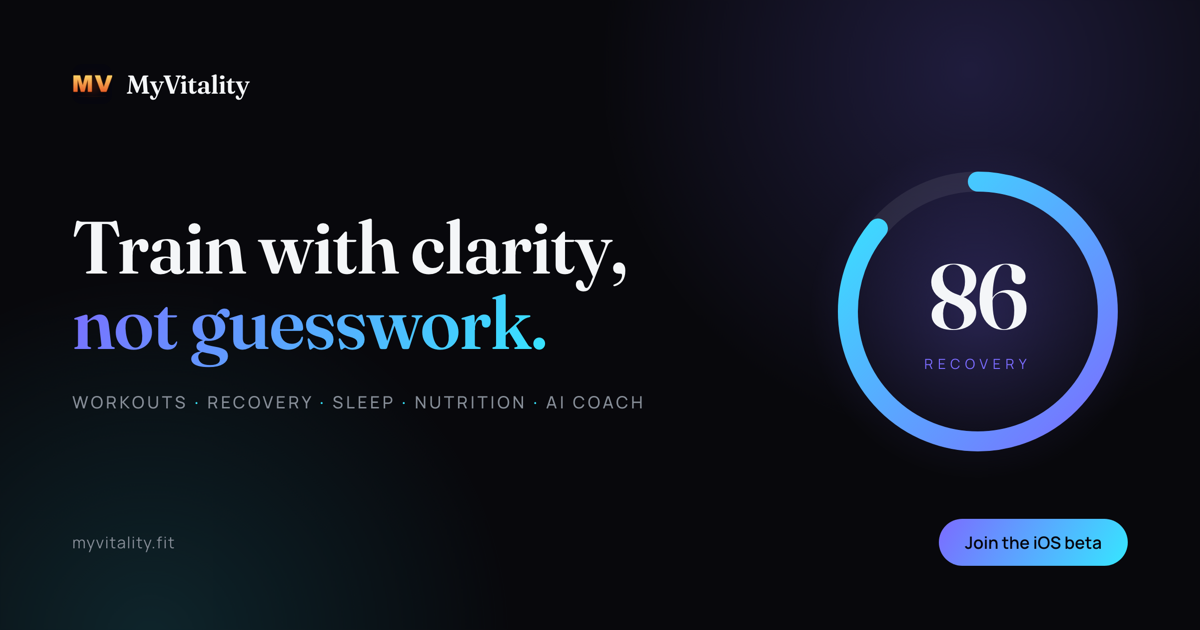
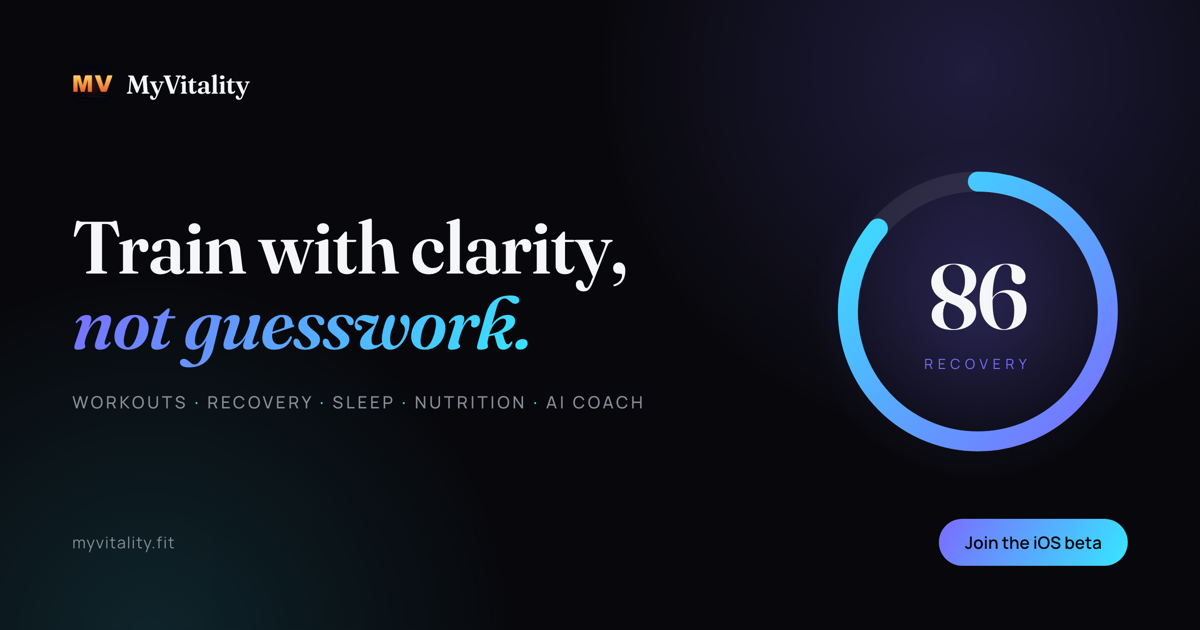
Motion pass: page transitions, staggered reveals, gradient micro-interactions
- Cross-document view transitions: pages crossfade + drift on navigation,
  sticky nav keeps its own transition group so it stays anchored (MPA feels
  like an app; progressive, reduced-motion safe).
- Grid reveals now cascade child-by-child (cards, posts, steps, FAQ) with
  70ms stagger instead of moving as one block; data-reveal added to 19
  subpage grids that never had it.
- CTAs slide the purple→cyan gradient on hover instead of a brightness
  bump; nav links get an animated gradient underline; feature-card 'more'
  arrows nudge + shift cyan; comparison rows highlight on hover.
- FAQ accordions animate open where interpolate-size is supported.
- Headline gradient highlights now italic Fraunces (site + OG image).

Changed region(s): [[0.0617, 0.4524, 0.4625, 0.6032]]

diff --git a/styles.css b/styles.css
@@ -1,4 +1,4 @@
-@import url('https://fonts.googleapis.com/css2?family=Fraunces:opsz,wght@9..144,450..650&family=Manrope:wght@400;500;600;700;800&display=swap');
+@import url('https://fonts.googleapis.com/css2?family=Fraunces:ital,opsz,wght@0,9..144,450..650;1,9..144,450..650&family=Manrope:wght@400;500;600;700;800&display=swap');
 
 /* ==========================================================================
    MyVitality — Aurora Instrument
@@ -66,6 +66,18 @@
   --ease: cubic-bezier(.2,.7,.2,1);
 }
 
+/* ── Page transitions — cross-document view transitions (progressive) ──
+   Pages crossfade + drift on navigation; the sticky nav keeps its own
+   transition group so it stays visually anchored between pages. */
+@view-transition { navigation: auto; }
+nav.site-nav { view-transition-name: site-nav; }
+@media (prefers-reduced-motion: no-preference) {
+  ::view-transition-old(root) { animation: pageOut .2s var(--ease) both; }
+  ::view-transition-new(root) { animation: pageIn .32s var(--ease) both; }
+}
+@keyframes pageOut { to { opacity: 0; transform: translateY(-8px); } }
+@keyframes pageIn { from { opacity: 0; transform: translateY(10px); } }
+
 html { scroll-behavior: smooth; -webkit-text-size-adjust: 100%; }
 body {
   font-family: var(--font-sans);
@@ -118,6 +130,7 @@ h1, h2, h3 { font-family: var(--font-display); font-weight: 560; letter-spacing:
   color: var(--accent);
   background: var(--grad);
   -webkit-background-clip: text; -webkit-text-fill-color: transparent; background-clip: text;
+  font-style: italic; padding-right: .05em; /* italic serif accent; pad stops clip cutting the overhang */
 }
 
 /* Mono kicker / data label utility */
@@ -149,13 +162,20 @@ nav.site-nav {
 .nav-links { display: flex; align-items: center; gap: 30px; }
 .nav-links a { color: var(--muted); font-size: .9rem; font-weight: 500; white-space: nowrap; transition: color .2s var(--ease); }
 .nav-links a:hover, .nav-links a[aria-current="page"] { color: var(--text); }
+.nav-links a:not(.nav-cta) { position: relative; }
+.nav-links a:not(.nav-cta)::after {
+  content: ''; position: absolute; left: 0; bottom: -7px; width: 100%; height: 1.5px; border-radius: 2px;
+  background: var(--grad); transform: scaleX(0); transform-origin: left; transition: transform .28s var(--ease);
+}
+.nav-links a:not(.nav-cta):hover::after, .nav-links a:not(.nav-cta)[aria-current="page"]::after { transform: scaleX(1); }
 .nav-cta {
-  background: var(--grad); color: var(--ink) !important;
+  background: var(--grad); background-size: 165% 100%; background-position: 0% 50%;
+  color: var(--ink) !important;
   padding: 9px 18px; border-radius: var(--r-full); font-weight: 600; font-size: .85rem !important;
-  flex-shrink: 0; transition: transform .2s var(--ease), box-shadow .2s var(--ease), filter .2s var(--ease);
+  flex-shrink: 0; transition: transform .2s var(--ease), box-shadow .2s var(--ease), background-position .4s var(--ease);
   box-shadow: 0 6px 22px rgba(123,108,255,0.24);
 }
-.nav-cta:hover { transform: translateY(-1px); filter: brightness(1.08); box-shadow: 0 10px 30px rgba(123,108,255,0.34); }
+.nav-cta:hover { transform: translateY(-1px); background-position: 92% 50%; box-shadow: 0 10px 30px rgba(123,108,255,0.34); }
 
 /* Hamburger (injected by app.js) */
 .nav-toggle {
@@ -201,13 +221,14 @@ html.menu-open { overflow: hidden; }
 /* ── Buttons ── */
 .btn-primary {
   display: inline-flex; align-items: center; gap: 9px;
-  background: var(--grad); color: var(--ink);
+  background: var(--grad); background-size: 165% 100%; background-position: 0% 50%;
+  color: var(--ink);
   padding: 13px 24px; border-radius: var(--r-full); font-weight: 600; font-size: .95rem;
   letter-spacing: -0.01em; border: 0; cursor: pointer; font-family: inherit;
-  transition: transform .2s var(--ease), box-shadow .2s var(--ease), filter .2s var(--ease);
+  transition: transform .2s var(--ease), box-shadow .2s var(--ease), background-position .4s var(--ease);
   box-shadow: inset 0 1px 0 rgba(255,255,255,0.22), 0 8px 28px rgba(123,108,255,0.26);
 }
-.btn-primary:hover { transform: translateY(-2px); filter: brightness(1.09); box-shadow: inset 0 1px 0 rgba(255,255,255,0.28), 0 14px 40px rgba(123,108,255,0.36); }
+.btn-primary:hover { transform: translateY(-2px); background-position: 92% 50%; box-shadow: inset 0 1px 0 rgba(255,255,255,0.28), 0 14px 40px rgba(123,108,255,0.36); }
 .btn-secondary {
   display: inline-flex; align-items: center; gap: 8px;
   background: transparent; border: 1px solid var(--border);
@@ -287,7 +308,8 @@ html.menu-open { overflow: hidden; }
 .feat-card:hover .feat-icon { color: var(--accent); border-color: var(--accent-line); background: var(--accent-soft); }
 .feat-title { font-size: 1.02rem; font-weight: 600; letter-spacing: -0.015em; margin-bottom: 9px; }
 .feat-desc { font-size: .9rem; color: var(--muted); line-height: 1.6; }
-.feat-card .more { display: inline-block; margin-top: 14px; font-family: var(--font-label); font-size: .76rem; font-weight: 500; letter-spacing: .02em; color: var(--accent); }
+.feat-card .more { display: inline-block; margin-top: 14px; font-family: var(--font-label); font-size: .76rem; font-weight: 500; letter-spacing: .02em; color: var(--accent); transition: transform .25s var(--ease), color .25s var(--ease); }
+.feat-card:hover .more { transform: translateX(3px); color: var(--accent-2); }
 
 /* ── Problem cards ── */
 .problem-card { background: var(--card); border: 1px solid var(--border); border-radius: var(--r); padding: 24px; }
@@ -304,6 +326,8 @@ html.menu-open { overflow: hidden; }
 .compare .yes { color: var(--accent); font-weight: 600; }
 .compare .no { color: var(--faint); }
 .compare tr:last-child td { border-bottom: none; }
+.compare tbody tr { transition: background .18s var(--ease); }
+.compare tbody tr:hover { background: rgba(255,255,255,0.02); }
 .compare-wrap { overflow-x: auto; }
 
 /* ── FAQ (CSS-only accordion, hairline list) ── */
@@ -316,6 +340,15 @@ html.menu-open { overflow: hidden; }
 .faq summary::-webkit-details-marker { display: none; }
 .faq summary::after { content: '+'; color: var(--accent); font-size: 1.5rem; font-weight: 300; line-height: 1; transition: transform .25s var(--ease); }
 .faq details[open] summary::after { transform: rotate(45deg); }
+/* Smooth accordion expand where the browser can animate height:auto */
+@supports (interpolate-size: allow-keywords) {
+  :root { interpolate-size: allow-keywords; }
+  .faq details::details-content {
+    height: 0; overflow: clip;
+    transition: height .32s var(--ease), content-visibility .32s allow-discrete;
+  }
+  .faq details[open]::details-content { height: auto; }
+}
 .faq details p { color: var(--text-2); font-size: .95rem; line-height: 1.7; padding: 0 4px 22px; max-width: 660px; }
 .faq details p a { color: var(--accent); }
 
@@ -440,8 +473,28 @@ html.js [data-reveal] {
   transition: opacity .7s var(--ease), transform .7s var(--ease); will-change: opacity, transform;
 }
 html.js [data-reveal].in { opacity: 1; transform: none; }
+
+/* Grids cascade: the container stays put, its children stagger in one by one */
+html.js :is(.cards-3, .cards-2, .post-grid, .trust-grid, .why-grid, .steps, .price-grid, .faq)[data-reveal] {
+  opacity: 1; transform: none; transition: none;
+}
+html.js :is(.cards-3, .cards-2, .post-grid, .trust-grid, .why-grid, .steps, .price-grid, .faq)[data-reveal] > * {
+  opacity: 0; transform: translateY(22px);
+  transition: opacity .55s var(--ease), transform .55s var(--ease);
+}
+html.js :is(.cards-3, .cards-2, .post-grid, .trust-grid, .why-grid, .steps, .price-grid, .faq)[data-reveal].in > * { opacity: 1; transform: none; }
+html.js [data-reveal].in > :nth-child(2) { transition-delay: .07s; }
+html.js [data-reveal].in > :nth-child(3) { transition-delay: .14s; }
+html.js [data-reveal].in > :nth-child(4) { transition-delay: .21s; }
+html.js [data-reveal].in > :nth-child(5) { transition-delay: .28s; }
+html.js [data-reveal].in > :nth-child(6) { transition-delay: .35s; }
+html.js [data-reveal].in > :nth-child(7) { transition-delay: .42s; }
+html.js [data-reveal].in > :nth-child(n+8) { transition-delay: .49s; }
+
 @media (prefers-reduced-motion: reduce) {
-  html.js [data-reveal] { opacity: 1 !important; transform: none !important; }
+  html.js [data-reveal], html.js [data-reveal] > * {
+    opacity: 1 !important; transform: none !important; transition: none !important;
+  }
   html { scroll-behavior: auto; }
 }
 

diff --git a/features/index.html b/features/index.html
@@ -59,7 +59,7 @@
   <div class="container">
     <span class="eyebrow">Training</span>
     <h2 class="section-title">Track every workout</h2>
-    <div class="cards-3" style="margin-top:32px">
+    <div class="cards-3" data-reveal style="margin-top:32px">
       <div class="feat-card"><div class="feat-icon"><svg viewBox="0 0 24 24" aria-hidden="true"><path d="M9 20l-5 2V6l5-2 6 2 5-2v16l-5 2-6-2z"/><path d="M9 4v16M15 6v16"/></svg></div><div class="feat-title"><a class="feat-title-link" href="/workout-tracker/">GPS workout tracker</a></div><div class="feat-desc">Real-time route on a clean map with live pace, heart rate, elevation and splits.</div><a class="more" href="/workout-tracker/">Learn more →</a></div>
       <div class="feat-card"><div class="feat-icon"><svg viewBox="0 0 24 24" aria-hidden="true"><path d="M4 14a8 8 0 0 1 16 0"/><rect x="3" y="14" width="4" height="6" rx="1.6"/><rect x="17" y="14" width="4" height="6" rx="1.6"/></svg></div><div class="feat-title">Smart coaching cues</div><div class="feat-desc">Ghost runner, heart-rate zones, intervals, auto-pause and a 3-2-1 countdown.</div></div>
       <div class="feat-card"><div class="feat-icon"><svg viewBox="0 0 24 24" aria-hidden="true"><path d="M8 4h8v5a4 4 0 0 1-8 0z"/><path d="M8 6H5.2c.1 2.4 1.4 3.8 2.8 4M16 6h2.8c-.1 2.4-1.4 3.8-2.8 4"/><path d="M12 13v4M8.5 21h7M10 17h4"/></svg></div><div class="feat-title">Personal records &amp; streaks</div><div class="feat-desc">Auto-detected PRs from 1K to marathon, plus a daily streak with a monthly freeze.</div></div>
@@ -75,7 +75,7 @@
   <div class="container">
     <span class="eyebrow">Recovery &amp; health</span>
     <h2 class="section-title">Understand your body</h2>
-    <div class="cards-3" style="margin-top:32px">
+    <div class="cards-3" data-reveal style="margin-top:32px">
       <div class="feat-card"><div class="feat-icon"><svg viewBox="0 0 24 24" aria-hidden="true"><path d="M12 20s-7-4.6-9.2-8.4C1.1 8.3 2.8 5 6 5c2 0 3.2 1.2 4 2 .8-.8 2-2 4-2 3.2 0 4.9 3.3 3.2 6.6C19 15.4 12 20 12 20z"/></svg></div><div class="feat-title"><a class="feat-title-link" href="/recovery-tracker/">Recovery &amp; HRV</a></div><div class="feat-desc">A daily readiness score from HRV, resting heart rate and sleep.</div><a class="more" href="/recovery-tracker/">Learn more →</a></div>
       <div class="feat-card"><div class="feat-icon"><svg viewBox="0 0 24 24" aria-hidden="true"><path d="M21 12.8A8.5 8.5 0 1 1 11.2 3 6.6 6.6 0 0 0 21 12.8z"/></svg></div><div class="feat-title"><a class="feat-title-link" href="/sleep-tracker/">Sleep tracking</a></div><div class="feat-desc">Deep, REM and light stages every morning with trends.</div><a class="more" href="/sleep-tracker/">Learn more →</a></div>
       <div class="feat-card"><div class="feat-icon"><svg viewBox="0 0 24 24" aria-hidden="true"><path d="M12 4 2.9 19.5a1 1 0 0 0 .9 1.5h16.4a1 1 0 0 0 .9-1.5z"/><path d="M12 10v4M12 17.5h.01"/></svg></div><div class="feat-title">Recovery intelligence</div><div class="feat-desc">Training-load balance, early-warning alerts and habit insights.</div></div>
@@ -91,7 +91,7 @@
   <div class="container">
     <span class="eyebrow">Nutrition &amp; coaching</span>
     <h2 class="section-title">Fuel and guidance</h2>
-    <div class="cards-3" style="margin-top:32px">
+    <div class="cards-3" data-reveal style="margin-top:32px">
       <div class="feat-card"><div class="feat-icon"><svg viewBox="0 0 24 24" aria-hidden="true"><path d="M5 21C4 12 9 4 20 4c0 11-8 16-15 14z"/><path d="M5 21c2-6 6-9 10-10"/></svg></div><div class="feat-title">AI nutrition</div><div class="feat-desc">Photo → macros in seconds, barcode scanning and custom protein, carb and fat goals.</div></div>
       <div class="feat-card"><div class="feat-icon"><svg viewBox="0 0 24 24" aria-hidden="true"><path d="M12 3s6 6.4 6 10.4a6 6 0 0 1-12 0C6 9.4 12 3 12 3z"/></svg></div><div class="feat-title">Net calories &amp; water</div><div class="feat-desc">Calories in vs out, micronutrient trends and first-class water tracking.</div></div>
       <div class="feat-card"><div class="feat-icon"><svg viewBox="0 0 24 24" aria-hidden="true"><path d="M12 3l1.7 5L19 9.7l-5.3 1.6L12 17l-1.7-5.7L5 9.7 10.3 8z"/><path d="M19 14.5l.6 1.9 1.9.6-1.9.6-.6 1.9-.6-1.9-1.9-.6 1.9-.6z"/></svg></div><div class="feat-title"><a class="feat-title-link" href="/#coach">AI coach</a></div><div class="feat-desc">Ask anything; answers grounded in your real recovery, training and goals.</div><a class="more" href="/#coach">Meet the coach →</a></div>
@@ -104,7 +104,7 @@
   <div class="container">
     <span class="eyebrow">Community</span>
     <h2 class="section-title">Stay accountable</h2>
-    <div class="cards-3" style="margin-top:32px">
+    <div class="cards-3" data-reveal style="margin-top:32px">
       <div class="feat-card"><div class="feat-icon"><svg viewBox="0 0 24 24" aria-hidden="true"><circle cx="9" cy="8" r="3"/><path d="M3.5 20a5.5 5.5 0 0 1 11 0"/><path d="M16 6.2a3 3 0 0 1 0 5.6M20.5 20a5.5 5.5 0 0 0-4-5.3"/></svg></div><div class="feat-title"><a class="feat-title-link" href="/community/">Activity feed</a></div><div class="feat-desc">Follow friends, cheer their workouts and share your route card.</div><a class="more" href="/community/">Learn more →</a></div>
       <div class="feat-card"><div class="feat-icon"><svg viewBox="0 0 24 24" aria-hidden="true"><path d="M5 21V4"/><path d="M5 5c4.5-2.2 8.5 2 14 0v9.5c-5.5 2-9.5-2.2-14 0"/></svg></div><div class="feat-title">Challenges &amp; teams</div><div class="feat-desc">Solo or team distance challenges with live leaderboards.</div></div>
       <div class="feat-card"><div class="feat-icon"><svg viewBox="0 0 24 24" aria-hidden="true"><rect x="3" y="5" width="18" height="14" rx="2"/><path d="M7.5 5v14M16.5 5v14M3 9.5h4.5M3 14.5h4.5M16.5 9.5H21M16.5 14.5H21"/></svg></div><div class="feat-title">Year in review</div><div class="feat-desc">A shareable story of your training year.</div></div>

diff --git a/workout-tracker/index.html b/workout-tracker/index.html
@@ -96,7 +96,7 @@
     <p class="section-sub">Consistency is the whole game. MyVitality turns every session into a trend you can actually act on.</p>
   </div>
   <div class="container" style="margin-top:48px">
-    <div class="cards-3">
+    <div class="cards-3" data-reveal>
       <div class="feat-card"><div class="feat-icon"><svg viewBox="0 0 24 24" aria-hidden="true"><path d="M3 17l6-6 4 4 8-8"/><path d="M14 7h7v7"/></svg></div><div class="feat-title">Weekly &amp; monthly trends</div><div class="feat-desc">Distance, time, pace and elevation over time, so you can see whether you're really improving — not just guessing.</div></div>
       <div class="feat-card"><div class="feat-icon"><svg viewBox="0 0 24 24" aria-hidden="true"><path d="M8 4h8v5a4 4 0 0 1-8 0z"/><path d="M8 6H5.2c.1 2.4 1.4 3.8 2.8 4M16 6h2.8c-.1 2.4-1.4 3.8-2.8 4"/><path d="M12 13v4M8.5 21h7M10 17h4"/></svg></div><div class="feat-title">Automatic personal records</div><div class="feat-desc">PRs from 1K to marathon are detected for you and celebrated when you beat them.</div></div>
       <div class="feat-card"><div class="feat-icon"><svg viewBox="0 0 24 24" aria-hidden="true"><path d="M8.5 14.5A2.5 2.5 0 0 0 11 12c0-1.38-.5-2-1-3 1.072-2.143 2.224-3.095 3.5-3.5-.61 2.317.238 3.5 1.5 4.5C16.5 11.2 17 12.25 17 14a5 5 0 1 1-10 0c0-.145.005-.317.02-.5z"/></svg></div><div class="feat-title">Streaks &amp; consistency</div><div class="feat-desc">A daily activity streak keeps the habit alive — with a monthly freeze for the days life gets in the way.</div></div>
@@ -111,7 +111,7 @@
     <p class="section-sub">More than a stopwatch — MyVitality coaches you mid-run with audio cues so you can keep your eyes up.</p>
   </div>
   <div class="container" style="margin-top:48px">
-    <div class="cards-3">
+    <div class="cards-3" data-reveal>
       <div class="feat-card"><div class="feat-icon"><svg viewBox="0 0 24 24" aria-hidden="true"><path d="M12 3a7 7 0 0 0-7 7v10l2.5-2 2.5 2 2-2 2 2 2.5-2 2.5 2V10a7 7 0 0 0-7-7z"/><path d="M9.5 11h.01M14.5 11h.01"/></svg></div><div class="feat-title">Ghost runner</div><div class="feat-desc">Race your fastest past effort on the same route and hear whether you're ahead or behind.</div></div>
       <div class="feat-card"><div class="feat-icon"><svg viewBox="0 0 24 24" aria-hidden="true"><path d="M12 20s-7-4.6-9.2-8.4C1.1 8.3 2.8 5 6 5c2 0 3.2 1.2 4 2 .8-.8 2-2 4-2 3.2 0 4.9 3.3 3.2 6.6C19 15.4 12 20 12 20z"/><path d="M7.5 12h2.5l1-2 2 4 1-2h2.5"/></svg></div><div class="feat-title">Heart-rate zones</div><div class="feat-desc">Audio cues when you drift out of your target zone, so easy days stay easy and hard days stay hard.</div></div>
       <div class="feat-card"><div class="feat-icon"><svg viewBox="0 0 24 24" aria-hidden="true"><circle cx="12" cy="13.5" r="7"/><path d="M12 10.5v3l2.2 1.8M10 2.5h4M12 2.5v4"/></svg></div><div class="feat-title">Intervals &amp; auto-pause</div><div class="feat-desc">Built-in interval cues, a 3-2-1 countdown and automatic pause when you stop at a light.</div></div>
@@ -126,7 +126,7 @@
     <p class="section-sub">How you recover and fuel decides how much your workouts actually pay off.</p>
   </div>
   <div class="container" style="margin-top:40px">
-    <div class="cards-3">
+    <div class="cards-3" data-reveal>
       <div class="feat-card"><div class="feat-icon"><svg viewBox="0 0 24 24" aria-hidden="true"><path d="M12 20s-7-4.6-9.2-8.4C1.1 8.3 2.8 5 6 5c2 0 3.2 1.2 4 2 .8-.8 2-2 4-2 3.2 0 4.9 3.3 3.2 6.6C19 15.4 12 20 12 20z"/></svg></div><div class="feat-title">Recovery affects performance</div><div class="feat-desc">Train hard, then check your readiness so you don't dig a hole.</div><a class="more" href="/recovery-tracker/">Recovery tracker →</a></div>
       <div class="feat-card"><div class="feat-icon"><svg viewBox="0 0 24 24" aria-hidden="true"><path d="M21 12.8A8.5 8.5 0 1 1 11.2 3 6.6 6.6 0 0 0 21 12.8z"/></svg></div><div class="feat-title">Sleep drives adaptation</div><div class="feat-desc">Your gains happen at night — track sleep stages every morning.</div><a class="more" href="/sleep-tracker/">Sleep tracker →</a></div>
       <div class="feat-card"><div class="feat-icon"><svg viewBox="0 0 24 24" aria-hidden="true"><circle cx="9" cy="8" r="3"/><path d="M3.5 20a5.5 5.5 0 0 1 11 0"/><path d="M16 6.2a3 3 0 0 1 0 5.6M20.5 20a5.5 5.5 0 0 0-4-5.3"/></svg></div><div class="feat-title">Stay accountable</div><div class="feat-desc">Share your route card and get cheers from friends.</div><a class="more" href="/community/">Community →</a></div>
@@ -136,7 +136,7 @@
 
 <section id="faq">
   <div class="container center"><span class="eyebrow">FAQ</span><h2 class="section-title">Workout tracker questions</h2></div>
-  <div class="faq" style="margin-top:36px">
+  <div class="faq" data-reveal style="margin-top:36px">
     <details open><summary>Can I track workouts without a smartwatch?</summary><p>Yes. The workout tracker uses your iPhone's GPS, so you can record runs, rides and walks with just your phone. A smartwatch adds live heart rate and <a href="/recovery-tracker/">recovery</a> data.</p></details>
     <details><summary>What workout types can I track?</summary><p>Running, cycling, walking, hiking and more — plus any workout added manually with distance, duration and activity type.</p></details>
     <details><summary>Does it show splits and pace?</summary><p>Yes. You get live pace, distance, heart rate and elevation while you move, plus per-kilometre or per-mile splits when you finish.</p></details>

diff --git a/recovery-tracker/index.html b/recovery-tracker/index.html
@@ -96,7 +96,7 @@
     <p class="section-sub">MyVitality watches the patterns most people miss and nudges you at the right moment.</p>
   </div>
   <div class="container" style="margin-top:48px">
-    <div class="cards-3">
+    <div class="cards-3" data-reveal>
       <div class="feat-card"><div class="feat-icon"><svg viewBox="0 0 24 24" aria-hidden="true"><path d="M12 4 2.9 19.5a1 1 0 0 0 .9 1.5h16.4a1 1 0 0 0 .9-1.5z"/><path d="M12 10v4M12 17.5h.01"/></svg></div><div class="feat-title">Training-load balance</div><div class="feat-desc">An acute-to-chronic load ratio flags when you're ramping up too fast — the classic injury window.</div></div>
       <div class="feat-card"><div class="feat-icon"><svg viewBox="0 0 24 24" aria-hidden="true"><path d="M20 12.6A7.8 7.8 0 1 1 11 3.5a6 6 0 0 0 9 9.1z"/><path d="M19 4l.5 1.5L21 6l-1.5.5L19 8l-.5-1.5L17 6l1.5-.5z"/></svg></div><div class="feat-title">Social jet-lag</div><div class="feat-desc">Detects when weekend sleep timing drifts from your weekdays and quietly drags your recovery down.</div></div>
       <div class="feat-card"><div class="feat-icon"><svg viewBox="0 0 24 24" aria-hidden="true"><path d="M4 9h13v5a5 5 0 0 1-5 5H9a5 5 0 0 1-5-5z"/><path d="M17 10h1.5a2.5 2.5 0 0 1 0 5H17"/><path d="M8 3.5V6M12 3.5V6"/></svg></div><div class="feat-title">Habit insights</div><div class="feat-desc">Learns how late caffeine and other habits affect your sleep score, using your own data.</div></div>
@@ -110,7 +110,7 @@
     <p class="section-sub">Your readiness only makes sense next to your training, sleep and an AI coach that reads all of it.</p>
   </div>
   <div class="container" style="margin-top:40px">
-    <div class="cards-3">
+    <div class="cards-3" data-reveal>
       <div class="feat-card"><div class="feat-icon"><svg viewBox="0 0 24 24" aria-hidden="true"><path d="M9 20l-5 2V6l5-2 6 2 5-2v16l-5 2-6-2z"/><path d="M9 4v16M15 6v16"/></svg></div><div class="feat-title">Train on the right days</div><div class="feat-desc">Pair readiness with your sessions to time hard efforts well.</div><a class="more" href="/workout-tracker/">Workout tracker →</a></div>
       <div class="feat-card"><div class="feat-icon"><svg viewBox="0 0 24 24" aria-hidden="true"><path d="M21 12.8A8.5 8.5 0 1 1 11.2 3 6.6 6.6 0 0 0 21 12.8z"/></svg></div><div class="feat-title">Sleep is the foundation</div><div class="feat-desc">See the sleep stages driving your recovery each night.</div><a class="more" href="/sleep-tracker/">Sleep tracker →</a></div>
       <div class="feat-card"><div class="feat-icon"><svg viewBox="0 0 24 24" aria-hidden="true"><path d="M12 3l1.7 5L19 9.7l-5.3 1.6L12 17l-1.7-5.7L5 9.7 10.3 8z"/><path d="M19 14.5l.6 1.9 1.9.6-1.9.6-.6 1.9-.6-1.9-1.9-.6 1.9-.6z"/></svg></div><div class="feat-title">Ask your AI coach</div><div class="feat-desc">"Am I recovered enough today?" — answered with your numbers.</div><a class="more" href="/#coach">AI coach →</a></div>
@@ -120,7 +120,7 @@
 
 <section id="faq">
   <div class="container center"><span class="eyebrow">FAQ</span><h2 class="section-title">Recovery tracker questions</h2></div>
-  <div class="faq" style="margin-top:36px">
+  <div class="faq" data-reveal style="margin-top:36px">
     <details open><summary>What is a recovery score?</summary><p>A recovery (or readiness) score combines overnight heart rate variability, resting heart rate and sleep quality into one number that tells you how ready your body is to train hard today.</p></details>
     <details><summary>Do I need an Apple Watch?</summary><p>You need a wearable that measures overnight HRV and heart rate and syncs to Apple Health — Apple Watch, Garmin, Whoop, Oura or Fitbit all work. MyVitality reads the data automatically.</p></details>
     <details><summary>How is recovery different from rest?</summary><p>Rest is taking time off; recovery is the measurable process of adapting and returning to baseline. We break it down further in <a href="/blog/recovery-vs-rest/">recovery vs rest</a>.</p></details>

diff --git a/community/index.html b/community/index.html
@@ -96,7 +96,7 @@
     <p class="section-sub">The features that make it easy to keep going when motivation dips.</p>
   </div>
   <div class="container" style="margin-top:48px">
-    <div class="cards-3">
+    <div class="cards-3" data-reveal>
       <div class="feat-card"><div class="feat-icon"><svg viewBox="0 0 24 24" aria-hidden="true"><path d="M5 21V4"/><path d="M5 5c4.5-2.2 8.5 2 14 0v9.5c-5.5 2-9.5-2.2-14 0"/></svg></div><div class="feat-title">Challenges &amp; teams</div><div class="feat-desc">Create or join a distance challenge, solo or as a team, and watch the leaderboard climb.</div></div>
       <div class="feat-card"><div class="feat-icon"><svg viewBox="0 0 24 24" aria-hidden="true"><path d="M3 11l18-5v12L3 14v-3z"/><path d="M11.6 16.8a3 3 0 1 1-5.8-1.6"/></svg></div><div class="feat-title">Cheers</div><div class="feat-desc">Send and receive cheers mid-activity — a little encouragement right when it helps.</div></div>
       <div class="feat-card"><div class="feat-icon"><svg viewBox="0 0 24 24" aria-hidden="true"><rect x="3" y="5" width="18" height="14" rx="2"/><path d="M7.5 5v14M16.5 5v14M3 9.5h4.5M3 14.5h4.5M16.5 9.5H21M16.5 14.5H21"/></svg></div><div class="feat-title">Year in review</div><div class="feat-desc">A shareable story of your year — distance, elevation, PRs and your longest streaks.</div></div>
@@ -109,7 +109,7 @@
     <h2 class="section-title">Better together with the rest of MyVitality</h2>
   </div>
   <div class="container" style="margin-top:40px">
-    <div class="cards-3">
+    <div class="cards-3" data-reveal>
       <div class="feat-card"><div class="feat-icon"><svg viewBox="0 0 24 24" aria-hidden="true"><path d="M9 20l-5 2V6l5-2 6 2 5-2v16l-5 2-6-2z"/><path d="M9 4v16M15 6v16"/></svg></div><div class="feat-title">Share real workouts</div><div class="feat-desc">Every GPS session becomes a route card worth posting.</div><a class="more" href="/workout-tracker/">Workout tracker →</a></div>
       <div class="feat-card"><div class="feat-icon"><svg viewBox="0 0 24 24" aria-hidden="true"><path d="M8.5 14.5A2.5 2.5 0 0 0 11 12c0-1.38-.5-2-1-3 1.072-2.143 2.224-3.095 3.5-3.5-.61 2.317.238 3.5 1.5 4.5C16.5 11.2 17 12.25 17 14a5 5 0 1 1-10 0c0-.145.005-.317.02-.5z"/></svg></div><div class="feat-title">Build the habit</div><div class="feat-desc">Consistency is the goal — here's how to make it stick.</div><a class="more" href="/blog/build-workout-consistency/">Read the guide →</a></div>
       <div class="feat-card"><div class="feat-icon"><svg viewBox="0 0 24 24" aria-hidden="true"><path d="M12 20s-7-4.6-9.2-8.4C1.1 8.3 2.8 5 6 5c2 0 3.2 1.2 4 2 .8-.8 2-2 4-2 3.2 0 4.9 3.3 3.2 6.6C19 15.4 12 20 12 20z"/></svg></div><div class="feat-title">Train sustainably</div><div class="feat-desc">Push with friends, but recover smart too.</div><a class="more" href="/recovery-tracker/">Recovery tracker →</a></div>
@@ -119,7 +119,7 @@
 
 <section id="faq">
   <div class="container center"><span class="eyebrow">FAQ</span><h2 class="section-title">Community questions</h2></div>
-  <div class="faq" style="margin-top:36px">
+  <div class="faq" data-reveal style="margin-top:36px">
     <details open><summary>Is the fitness community public?</summary><p>You choose. Follow friends and share with them, keep activities private, or post publicly — you control who sees each workout. See our <a href="/privacy-policy/">privacy policy</a>.</p></details>
     <details><summary>What are challenges?</summary><p>Distance or activity goals you can do solo or as a team, with a live leaderboard to keep everyone motivated.</p></details>
     <details><summary>Can I share my workouts to Instagram?</summary><p>Yes. Every workout becomes a clean route card you can share to Instagram, WhatsApp or anywhere in one tap.</p></details>

diff --git a/sleep-tracker/index.html b/sleep-tracker/index.html
@@ -95,7 +95,7 @@
     <p class="section-sub">It drives your recovery, fuels your training and shapes how you feel all day.</p>
   </div>
   <div class="container" style="margin-top:40px">
-    <div class="cards-3">
+    <div class="cards-3" data-reveal>
       <div class="feat-card"><div class="feat-icon"><svg viewBox="0 0 24 24" aria-hidden="true"><path d="M12 20s-7-4.6-9.2-8.4C1.1 8.3 2.8 5 6 5c2 0 3.2 1.2 4 2 .8-.8 2-2 4-2 3.2 0 4.9 3.3 3.2 6.6C19 15.4 12 20 12 20z"/></svg></div><div class="feat-title">Powers your recovery</div><div class="feat-desc">Sleep quality feeds straight into your daily readiness score.</div><a class="more" href="/recovery-tracker/">Recovery tracker →</a></div>
       <div class="feat-card"><div class="feat-icon"><svg viewBox="0 0 24 24" aria-hidden="true"><path d="M9 20l-5 2V6l5-2 6 2 5-2v16l-5 2-6-2z"/><path d="M9 4v16M15 6v16"/></svg></div><div class="feat-title">Fuels your training</div><div class="feat-desc">Better sleep means better sessions — track both together.</div><a class="more" href="/workout-tracker/">Workout tracker →</a></div>
       <div class="feat-card"><div class="feat-icon"><svg viewBox="0 0 24 24" aria-hidden="true"><path d="M2 4.5h6a4 4 0 0 1 4 4V20a3 3 0 0 0-3-3H2z"/><path d="M22 4.5h-6a4 4 0 0 0-4 4V20a3 3 0 0 1 3-3h7z"/></svg></div><div class="feat-title">Learn the science</div><div class="feat-desc">How much sleep you really need for performance.</div><a class="more" href="/blog/how-much-sleep-for-performance/">Read the guide →</a></div>
@@ -105,7 +105,7 @@
 
 <section id="faq">
   <div class="container center"><span class="eyebrow">FAQ</span><h2 class="section-title">Sleep tracker questions</h2></div>
-  <div class="faq" style="margin-top:36px">
+  <div class="faq" data-reveal style="margin-top:36px">
     <details open><summary>How does the sleep tracker work?</summary><p>MyVitality reads your sleep data from Apple Health, including deep, REM and light stages recorded by your Apple Watch or compatible wearable, and shows a clear breakdown each morning.</p></details>
     <details><summary>How much sleep do I need?</summary><p>Most adults need seven to nine hours, but consistency and enough deep and REM sleep matter most for performance. See <a href="/blog/how-much-sleep-for-performance/">how much sleep you need for better performance</a>.</p></details>
     <details><summary>Can I track sleep without an Apple Watch?</summary><p>Yes — any wearable or sleep tracker that writes sleep data to Apple Health works, including Oura, Fitbit and Garmin.</p></details>

diff --git a/pricing/index.html b/pricing/index.html
@@ -68,7 +68,7 @@
 
 <section>
   <div class="container">
-    <div class="price-grid" style="grid-template-columns:1fr;max-width:460px">
+    <div class="price-grid" data-reveal style="grid-template-columns:1fr;max-width:460px">
       <div class="price-card featured">
         <div class="price-name">Premium · free trial</div>
         <div class="price-amount"><span data-price="amount">$6.99</span><small> / month after your free trial</small></div>
@@ -92,7 +92,7 @@
 
 <section id="faq" style="background:var(--surface);border-top:1px solid var(--border)">
   <div class="container center"><span class="eyebrow">FAQ</span><h2 class="section-title">Pricing questions</h2></div>
-  <div class="faq" style="margin-top:36px">
+  <div class="faq" data-reveal style="margin-top:36px">
     <details open><summary>How much does MyVitality cost?</summary><p>MyVitality starts with a free trial, then $6.99 per month. The price is shown in your local currency — for example £6.99 in the UK, €6.99 in Europe and ₺300 in Turkey.</p></details>
     <details><summary>Is there a free trial?</summary><p>Yes. You can try MyVitality free before any payment. Cancel anytime during the trial and you won't be charged.</p></details>
     <details><summary>Will there be ads?</summary><p>No. MyVitality does not show ads and never sells your data. Read the <a href="/privacy-policy/">privacy policy</a>.</p></details>

diff --git a/assets/og-template.html b/assets/og-template.html
@@ -6,7 +6,7 @@
 <head>
 <meta charset="UTF-8">
 <style>
-  @import url('https://fonts.googleapis.com/css2?family=Fraunces:opsz,wght@9..144,450..650&family=Manrope:wght@400;500;600;700&display=swap');
+  @import url('https://fonts.googleapis.com/css2?family=Fraunces:ital,opsz,wght@0,9..144,450..650;1,9..144,450..650&family=Manrope:wght@400;500;600;700&display=swap');
   * { margin: 0; padding: 0; box-sizing: border-box; }
   html, body { width: 1200px; height: 630px; overflow: hidden; }
   body {
@@ -24,7 +24,7 @@
   .main { flex: 1; display: flex; align-items: center; gap: 60px; }
   .copy { flex: 1; }
   h1 { font-family: "Fraunces"; font-size: 74px; font-weight: 600; line-height: 1.02; letter-spacing: -0.016em; }
-  h1 .grad { background: linear-gradient(120deg, #7B6CFF, #36E6FF); -webkit-background-clip: text; -webkit-text-fill-color: transparent; }
+  h1 .grad { background: linear-gradient(120deg, #7B6CFF, #36E6FF); -webkit-background-clip: text; -webkit-text-fill-color: transparent; font-style: italic; padding-right: .05em; }
   .sub { margin-top: 30px; font-family: "Manrope", sans-serif; font-size: 17px; font-weight: 500;
     letter-spacing: 0.16em; color: #868D97; text-transform: uppercase; }
   .sub b { color: #36E6FF; font-weight: 500; }

diff --git a/blog/index.html b/blog/index.html
@@ -54,7 +54,7 @@
 <section>
   <div class="container">
     <h2 class="sr-only">All guides</h2>
-    <div class="post-grid">
+    <div class="post-grid" data-reveal>
       <a class="post-card" href="/blog/strava-alternative-all-in-one/">
         <span class="tag">Comparison</span>
         <h3>Looking for a Strava alternative? What to actually compare</h3>
